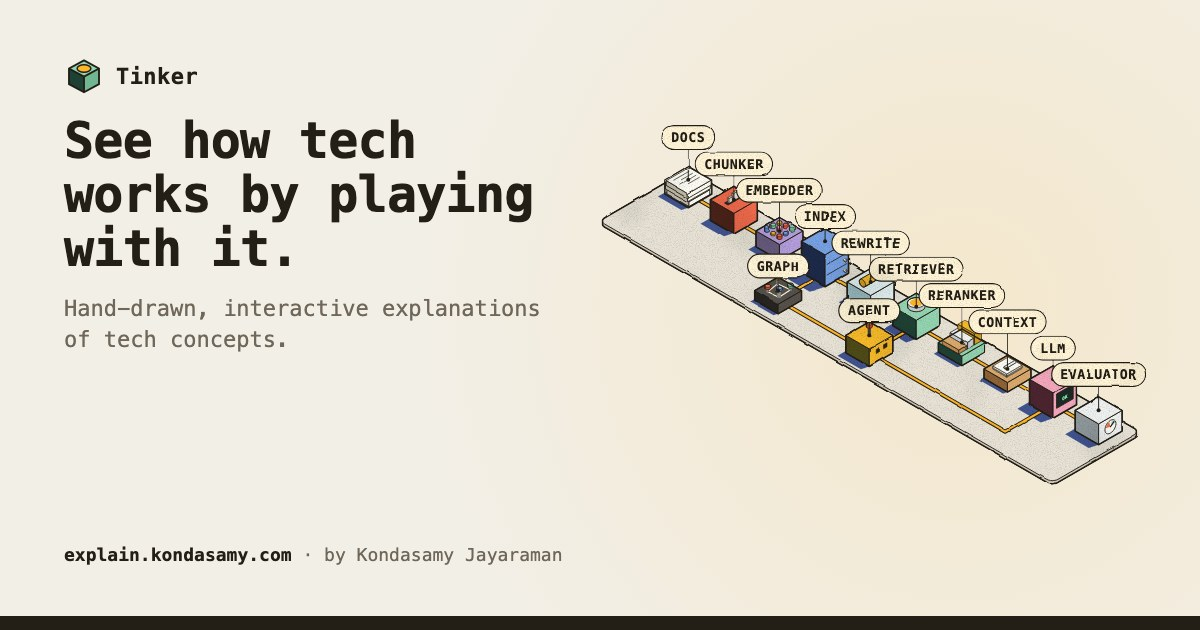
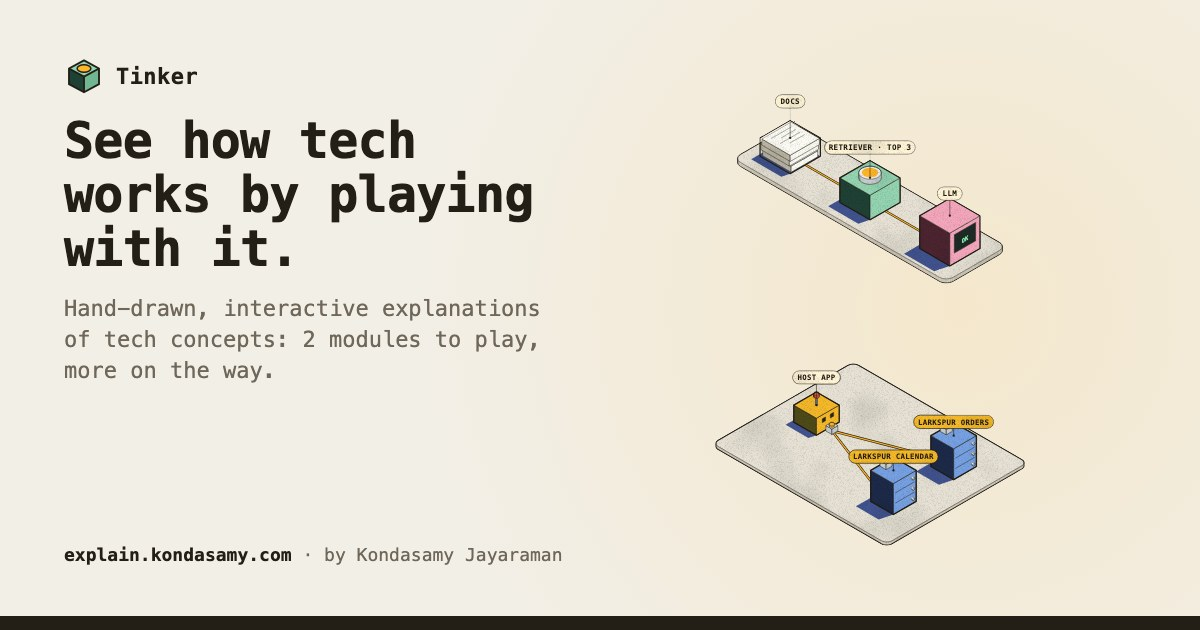
chore: refresh the home share image
The home card now shows one picture per live module and counts the live
modules from the registry.

Changed region(s): [[0.4933, 0.1508, 0.9558, 0.8746], [0.2467, 0.5127, 0.4317, 0.573], [0.0308, 0.573, 0.2158, 0.6032]]

diff --git a/src/lib/pages.ts b/src/lib/pages.ts
@@ -23,7 +23,7 @@ export const HOME: PageMeta = {
   description: 'Hand-drawn, interactive explanations of tech concepts. Build the thing, break it, fix it. By Kondasamy Jayaraman.',
   kicker: 'Tinker',
   headline: 'See how tech works by playing with it.',
-  sub: 'Hand-drawn, interactive explanations of tech concepts.',
+  sub: `Hand-drawn, interactive explanations of tech concepts: ${MODULES.filter(m => m.status === 'live').length} modules to play, more on the way.`,
 };
 
 export const RAG: PageMeta = {
